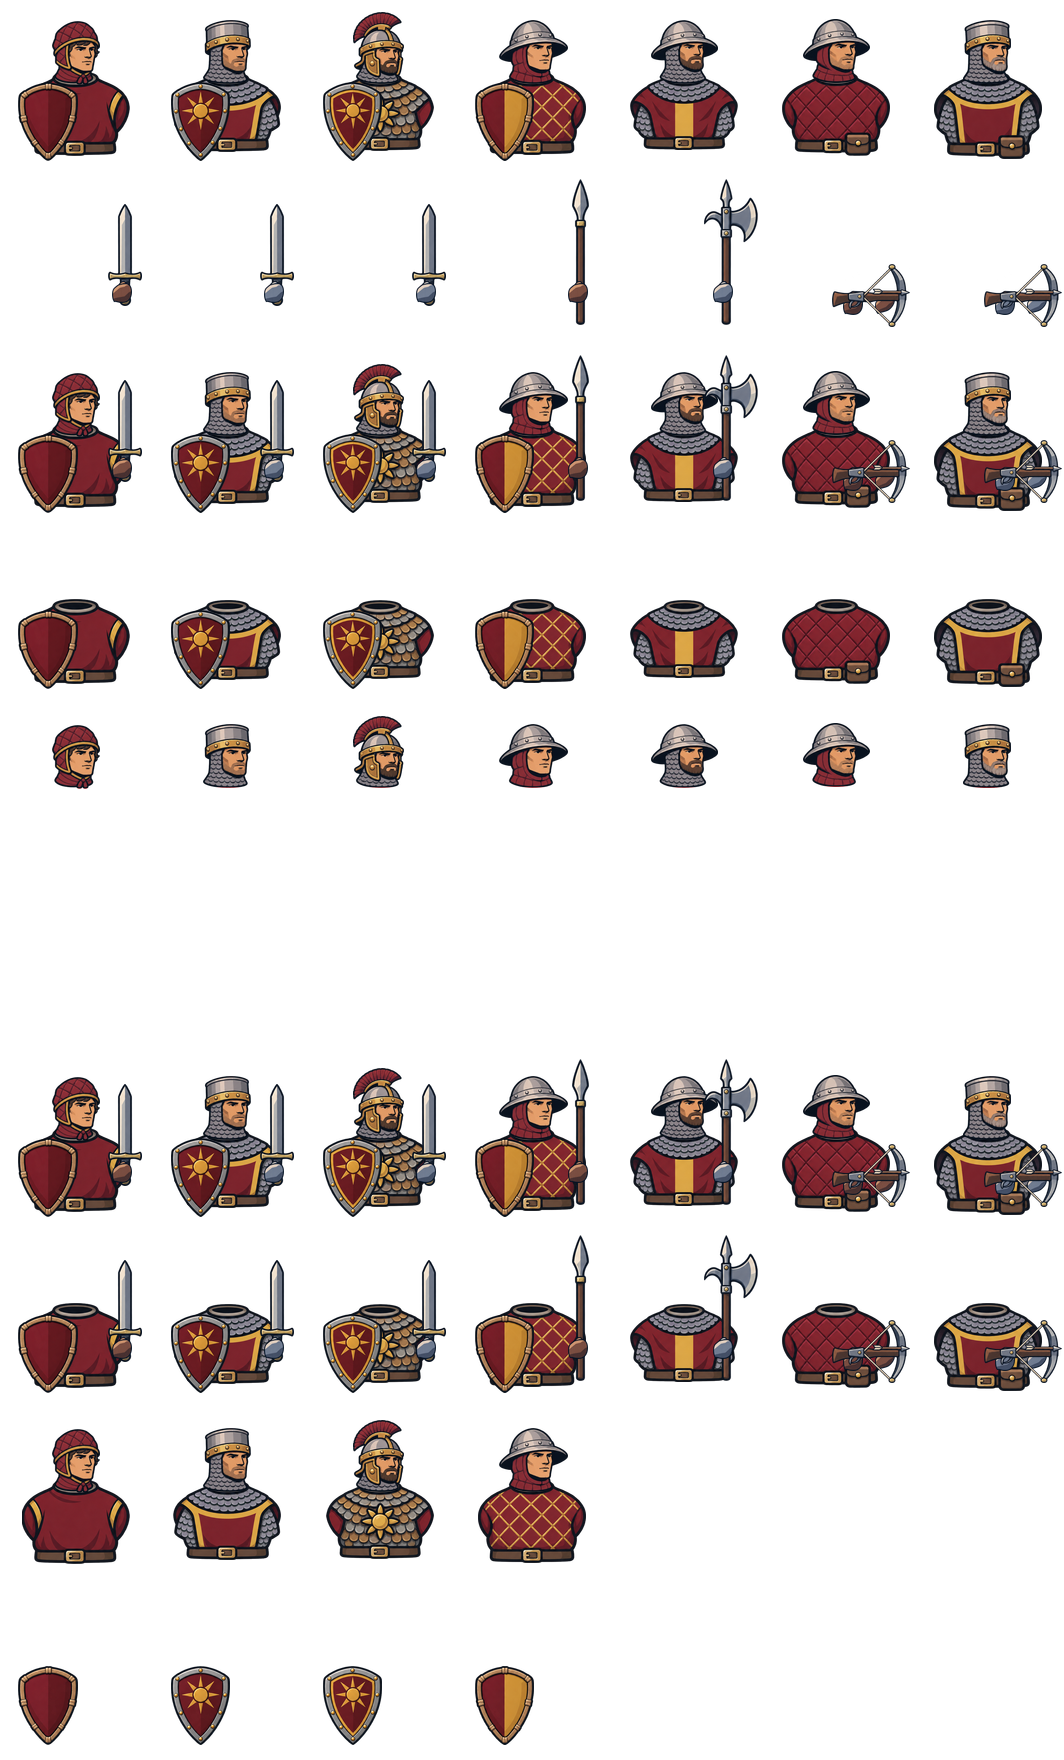
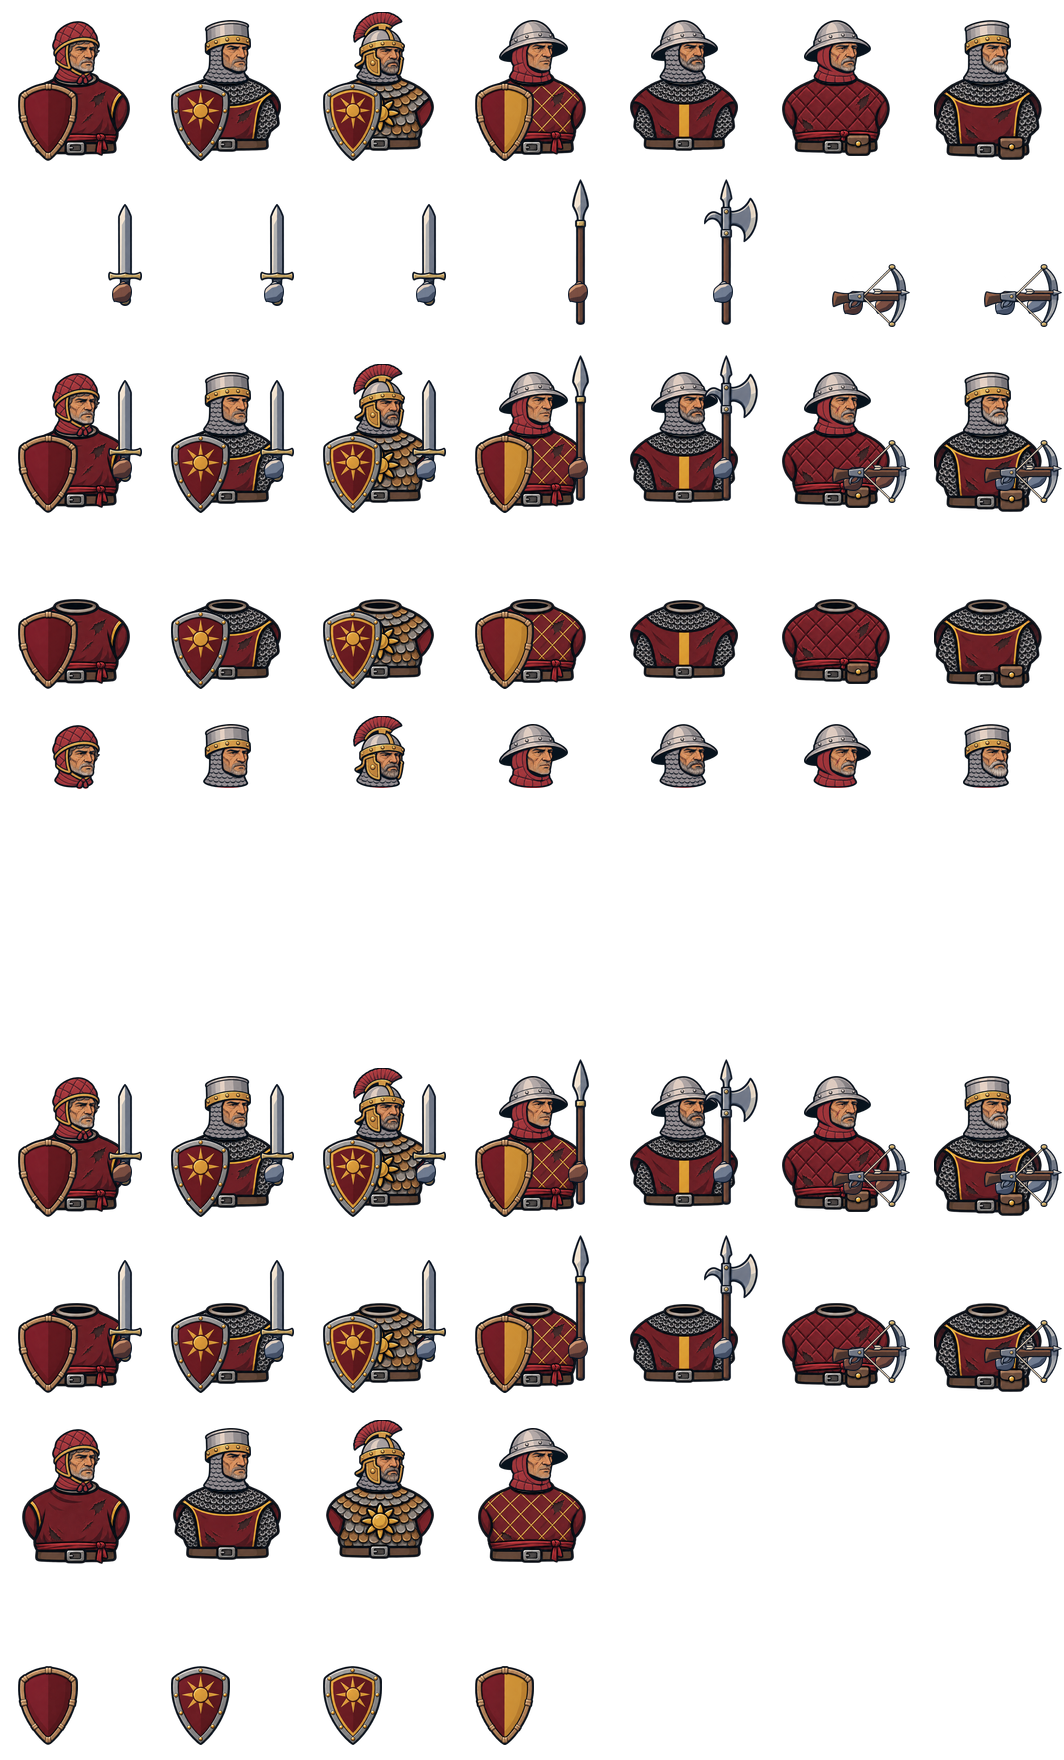
Империя: варианты бойцов — другие лица и детали брони (#292) (#302)
Claude-Session: https://claude.ai/code/session_0112NLBndME8PiXpuX2g7p2P

diff --git a/godot/tools/battle/heraldic_source/emp-prompts.md b/godot/tools/battle/heraldic_source/emp-prompts.md
@@ -75,3 +75,16 @@ middle center, middle right, bottom left: EMPTY.
 bottom center e3c cataphract: crimson field with a large gold sun, gilded rim with rivets.
 bottom right EMPTY.
 ```
+
+## Варианты
+
+Листы `emp-torsos-v1…v3.png` и `emp-heads-v1…v3.png` — правка `emp-torsos.png` / `emp-heads.png` (вложение) тем же
+генератором, по образцу вариантов Галлии (`kin-prompts.md`): те же восемь бойцов в тех же клетках, тот же тип доспеха,
+цвета и силуэт, меняются только детали и люди. Туловища: v1 — поношенное сукно с тёмными заплатами, отделка тонкими
+полосами, простые железные пряжки, завязанный кушак; v2 — кожаные ремни или небольшие наплечники, кайма с шашечным или
+геометрическим узором, заклёпки, поясные сумки; v3 — выцветшее сукно, контрастная отделка ворота, перевязь через грудь у
+суконных бойцов, круглые бляхи, видны ряды заклёпок на пластинах и кольчуге. В промпт добавлено «The rim at the back of
+the neck opening keeps the colour it has in the attached sheet, NOT grey». Головы: v1 — пожилые ветераны с проседью в
+бородах, обветренные лица; v2 — молодые, бритые или с лёгкой щетиной, светлее волосы; v3 — широкие лица, тёмные волосы,
+густые усы или полные бороды, кое-где шрам. Закрывающий лицо шлем катафракта меняет одну мелочь: v1 — другой цвет
+плюмажа, v2 — тонкая полосатая лента, v3 — металлическое навершие.
